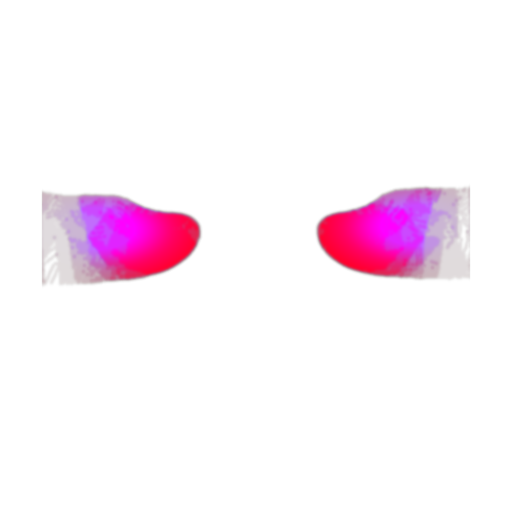
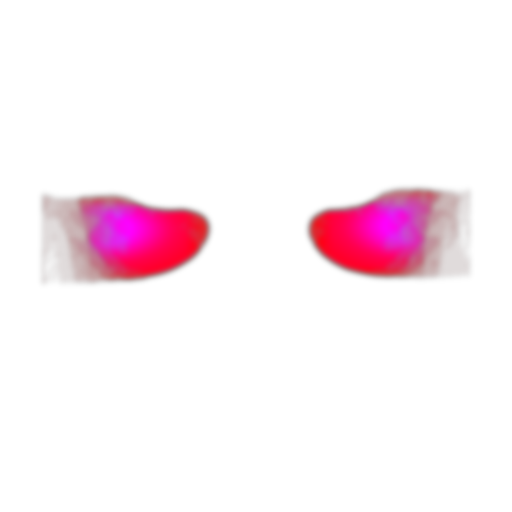
fix: soften cheek blush masks

Changed region(s): [[0.5938, 0.3438, 0.9062, 0.5625], [0.0625, 0.375, 0.4375, 0.5625]]

diff --git a/scripts/e7_reference_atlas/generate_cheek_blush_mask_textures.py b/scripts/e7_reference_atlas/generate_cheek_blush_mask_textures.py
@@ -134,7 +134,35 @@ def overlay_source_masks_for_comparison(
 def build_soft_unity_mask(uv_hard: Image.Image) -> Image.Image:
     variants = make_region_variants(uv_hard)
     safe = trim_horizontal_uv_seams(variants["soft"])
-    return safe.filter(ImageFilter.GaussianBlur(radius=0.55))
+    return safe.filter(ImageFilter.GaussianBlur(radius=2.6))
+
+
+def paint_ellipse(
+    target: np.ndarray,
+    *,
+    cx: float,
+    cy: float,
+    radius_x: float,
+    radius_y: float,
+    value: int = 255,
+) -> None:
+    height, width = target.shape
+    left = max(int(np.floor(cx - radius_x)), 0)
+    right = min(int(np.ceil(cx + radius_x)), width - 1)
+    top = max(int(np.floor(cy - radius_y)), 0)
+    bottom = min(int(np.ceil(cy + radius_y)), height - 1)
+    if right < left or bottom < top:
+        return
+
+    grid_y, grid_x = np.mgrid[top : bottom + 1, left : right + 1]
+    ellipse = (
+        ((grid_x - cx) / max(radius_x, 1.0)) ** 2
+        + ((grid_y - cy) / max(radius_y, 1.0)) ** 2
+    ) <= 1.0
+    target[top : bottom + 1, left : right + 1] = np.maximum(
+        target[top : bottom + 1, left : right + 1],
+        ellipse.astype(np.uint8) * value,
+    )
 
 
 def expand_component_ellipse(
@@ -179,7 +207,42 @@ def expand_component_ellipse(
 def expand_screen_mask_for_runtime(clean: np.ndarray, mask_id: str) -> np.ndarray:
     expanded = np.asarray(clean, dtype=np.uint8).copy()
     alpha = expanded.astype(np.float32) / 255.0
-    _, width = expanded.shape
+    height, width = expanded.shape
+
+    if mask_id == "cheek-sunkissed-mask1-v1":
+        rebuilt = np.zeros_like(expanded)
+        components = iter_components(alpha, min_pixels=24)
+        for component in components:
+            ys, xs = np.nonzero(component)
+            if len(xs) == 0:
+                continue
+
+            box_w = max(float(xs.max() - xs.min() + 1), 1.0)
+            box_h = max(float(ys.max() - ys.min() + 1), 1.0)
+            cx = float(xs.mean())
+            cy = float(ys.mean())
+            centered = abs(cx - width * 0.5) < width * 0.12
+            small = box_w < width * 0.16 and box_h < height * 0.06
+            if centered and small:
+                paint_ellipse(
+                    rebuilt,
+                    cx=cx,
+                    cy=cy + box_h * 0.02,
+                    radius_x=box_w * 1.16,
+                    radius_y=box_h * 1.08,
+                )
+                continue
+
+            direction = -1.0 if cx < width * 0.5 else 1.0
+            paint_ellipse(
+                rebuilt,
+                cx=cx - direction * box_w * 0.44,
+                cy=cy + box_h * 0.03,
+                radius_x=max(box_w * 0.98, box_h * 0.62),
+                radius_y=box_h * 0.54,
+            )
+
+        return rebuilt
 
     if mask_id == "cheek-under-eye-mask-v1":
         for component in iter_components(alpha, min_pixels=24):
@@ -207,10 +270,10 @@ def expand_screen_mask_for_runtime(clean: np.ndarray, mask_id: str) -> np.ndarra
         return expanded
 
     growth_by_mask = {
-        "cheek-lovely-mask-v1": (1.52, 1.50, 0.0, 0.04),
-        "cheek-daily-mask-v1": (1.44, 1.42, 0.08, 0.02),
-        "cheek-sunkissed-mask1-v1": (1.34, 1.38, 0.04, 0.02),
-        "cheek-sunkissed-mask2-v1": (1.18, 1.68, 0.0, 0.10),
+        "cheek-lovely-mask-v1": (1.58, 1.54, 0.0, 0.04),
+        "cheek-daily-mask-v1": (1.48, 1.44, 0.02, 0.02),
+        "cheek-sunkissed-mask1-v1": (1.36, 1.40, 0.0, 0.02),
+        "cheek-sunkissed-mask2-v1": (1.22, 1.74, 0.0, 0.10),
     }
     scale_x, scale_y, outward_shift, shift_y = growth_by_mask.get(
         mask_id,
@@ -232,6 +295,32 @@ def expand_screen_mask_for_runtime(clean: np.ndarray, mask_id: str) -> np.ndarra
         )
 
     return expanded
+
+
+def uv_face_edge_fade(shape: tuple[int, int], margin: float = 0.075, full: float = 0.26) -> np.ndarray:
+    height, width = shape
+    _, grid_x = np.indices((height, width))
+    denom = max(float(width - 1), 1.0)
+    left = grid_x / denom
+    right = (denom - grid_x) / denom
+    return (
+        smoothstep_array(margin, full, left)
+        * smoothstep_array(margin, full, right)
+    )
+
+
+def component_inner_fade(component: np.ndarray, edge_fraction: float = 0.18) -> np.ndarray:
+    ys, xs = np.nonzero(component)
+    if len(xs) == 0:
+        return np.zeros(component.shape, dtype=np.float32)
+
+    box_w = max(float(xs.max() - xs.min() + 1), 1.0)
+    box_h = max(float(ys.max() - ys.min() + 1), 1.0)
+    grid_y, grid_x = np.indices(component.shape)
+    x_distance = np.minimum(grid_x - xs.min(), xs.max() - grid_x) / box_w
+    y_distance = np.minimum(grid_y - ys.min(), ys.max() - grid_y) / box_h
+    edge_distance = np.minimum(x_distance, y_distance)
+    return smoothstep_array(0.018, edge_fraction, edge_distance) * component
 
 
 def iter_components(alpha: np.ndarray, min_pixels: int = 8) -> list[np.ndarray]:
@@ -307,14 +396,16 @@ def three_stage_density(
     cap: float = 1.0,
 ) -> np.ndarray:
     grid_y, grid_x = np.indices(alpha.shape)
-    alpha_gate = smoothstep_array(0.035, 0.62, alpha) * component
+    inner_fade = component_inner_fade(component)
+    safe_edge = uv_face_edge_fade(alpha.shape)
+    alpha_gate = smoothstep_array(0.22, 0.84, alpha) * inner_fade * safe_edge
     distance = np.sqrt(
         ((grid_x - peak_x) / max(sigma_x, 1.0)) ** 2
         + ((grid_y - peak_y) / max(sigma_y, 1.0)) ** 2
     )
-    outer = smoothstep_array(1.92, 0.70, distance) * 0.28
-    mid = smoothstep_array(1.24, 0.38, distance) * 0.36
-    core = np.exp(-(distance**2)) * 0.48
+    outer = smoothstep_array(1.86, 0.70, distance) * 0.08
+    mid = smoothstep_array(1.12, 0.34, distance) * 0.34
+    core = np.exp(-(distance**2) * 1.24) * 0.70
     layered = np.clip(base + outer + mid + core, 0.0, 1.0)
     return alpha_gate * np.clip(layered * cap, 0.0, 1.0)
 
@@ -350,13 +441,15 @@ def make_density_map(uv_soft: Image.Image, mask_id: str) -> Image.Image:
 
         if mask_id == "cheek-sunkissed-mask2-v1":
             half_width = max(box_w * 0.56, 1.0)
-            alpha_gate = smoothstep_array(0.035, 0.62, alpha) * component
+            inner_fade = component_inner_fade(component, edge_fraction=0.24)
+            safe_edge = uv_face_edge_fade(alpha.shape)
+            alpha_gate = smoothstep_array(0.26, 0.86, alpha) * inner_fade * safe_edge
             side_strength = np.clip(np.abs((grid_x - cx) / half_width), 0.0, 1.0)
-            outer = 0.16 * smoothstep_array(0.02, 0.48, alpha)
-            mid = 0.32 * smoothstep_array(0.15, 0.76, alpha)
-            ridge = 0.10 + 0.90 * np.power(side_strength, 1.35)
+            outer = 0.03 * smoothstep_array(0.22, 0.70, alpha)
+            mid = 0.22 * smoothstep_array(0.34, 0.84, alpha)
+            ridge = 0.18 + 0.82 * np.power(side_strength, 1.18)
             vertical_core = np.exp(-((grid_y - (cy + box_h * 0.08)) / max(box_h * 0.42, 1.0)) ** 2)
-            core = 0.46 * ridge * vertical_core
+            core = 0.40 * ridge * vertical_core
             component_density = alpha_gate * np.clip(outer + mid + core, 0.0, 1.0)
         else:
             direction = -1.0 if cx < width * 0.5 else 1.0
@@ -379,10 +472,10 @@ def make_density_map(uv_soft: Image.Image, mask_id: str) -> Image.Image:
                 base = 0.10
             elif mask_id == "cheek-sunkissed-mask1-v1":
                 is_nose = abs(cx - width * 0.5) < width * 0.10 and box_w < width * 0.18
-                sigma_x = box_w * (0.44 if is_nose else 0.40)
-                sigma_y = box_h * (0.44 if is_nose else 0.38)
-                base = 0.02 if is_nose else 0.09
-                cap = 0.28 if is_nose else 1.0
+                sigma_x = box_w * (0.58 if is_nose else 0.40)
+                sigma_y = box_h * (0.54 if is_nose else 0.38)
+                base = 0.12 if is_nose else 0.08
+                cap = 1.0
             elif mask_id == "cheek-under-eye-mask-v1":
                 peak_x = cx + direction * box_w * 0.24
                 peak_y = cy - box_h * 0.02
@@ -409,7 +502,7 @@ def make_density_map(uv_soft: Image.Image, mask_id: str) -> Image.Image:
 
 def make_cheek_rgba_mask(uv_soft: Image.Image, mask_id: str) -> tuple[Image.Image, Image.Image]:
     alpha = uv_soft.convert("L")
-    density = make_density_map(alpha, mask_id)
+    density = make_density_map(alpha, mask_id).filter(ImageFilter.GaussianBlur(radius=1.65))
     reserved = Image.new("L", alpha.size, 0)
     return Image.merge("RGBA", (alpha, reserved, density, alpha)), density
 

diff --git a/scripts/e7_reference_atlas/make_cheek_blush_expected_preview.py b/scripts/e7_reference_atlas/make_cheek_blush_expected_preview.py
@@ -15,7 +15,7 @@ FRAME_PATH = ROOT / "evidence/e7-reference-atlas/capture_pairs/pair_face_2026062
 ARFACE_PATH = ROOT / "evidence/e7-reference-atlas/capture_pairs/pair_face_20260622T143334Z_03/arface_export.json"
[1 lines of base64/hex data omitted]
 EVIDENCE_ROOT = ROOT / "evidence/e7-reference-atlas/cheek-blush-mask-textures-v1"
-OUTPUT_ROOT = EVIDENCE_ROOT / "expected_render_20260628"
+OUTPUT_ROOT = EVIDENCE_ROOT / "expected_render_20260628_natural_v5"
 
 MASKS = (
     ("Daily", "blush_daily", "cheek-daily-mask-v1", 0.84, "#F2A59A"),
@@ -37,7 +37,7 @@ CHEEK_SKIN_TINT = np.array([1.0, 1.0, 1.0], dtype=np.float32)
 CHEEK_OPACITY = 0.52
 CHEEK_INTENSITY = 0.95
 PRESERVE_SCALE = 0.92
-MATERIAL_ALPHA = CHEEK_OPACITY * (0.18 + (0.42 - 0.18) * CHEEK_INTENSITY)
+MATERIAL_ALPHA = CHEEK_OPACITY * (0.24 + (0.54 - 0.24) * CHEEK_INTENSITY)
 CROP_BOX = (110, 710, 1060, 1460)
 
 
@@ -157,34 +157,44 @@ def render_expected(
     full_soft = smoothstep(0.025 - 0.64 * 0.46, 0.025 + 0.64, soft)
     full_core = smoothstep(0.025 + 0.64 * 0.18, 0.025 + 0.64 * 0.88, soft)
     edge_band = np.clip(full_soft - full_core, 0.0, 1.0)
-    outer_ramp = smoothstep(0.025, 0.36, full_soft)
-    mid_ramp = smoothstep(0.12, 0.68, density_soft)
-    core_ramp = smoothstep(0.52, 0.92, density_soft)
-    outer_layer = np.clip(outer_ramp * (0.22 + mid_ramp * 0.30), 0.0, 1.0)
-    mid_layer = np.clip(mid_ramp * full_soft, 0.0, 1.0)
-    core_layer = np.clip((core_ramp * (0.34 + (1.0 - 0.34) * full_core)) ** 1.08, 0.0, 1.0)
+    outer_ramp = smoothstep(0.12, 0.72, full_soft)
+    mid_ramp = smoothstep(0.20, 0.76, density_soft)
+    core_ramp = smoothstep(0.42, 0.88, density_soft)
+    outer_layer = np.clip(outer_ramp * (0.018 + mid_ramp * 0.040), 0.0, 1.0)
+    mid_layer = np.clip(mid_ramp * smoothstep(0.18, 0.70, full_soft), 0.0, 1.0)
+    core_layer = np.clip((core_ramp * (0.62 + (1.0 - 0.62) * full_core)) ** 1.04, 0.0, 1.0)
     skin_fade = np.clip(
-        outer_layer * 0.22
-        + mid_layer * 0.58
-        + core_layer,
+        outer_layer * 0.0
+        + mid_layer * 0.22
+        + core_layer * 0.96,
         0.0,
         1.0,
     )
-    edge_tint = edge_band * outer_layer * 0.012
     mask_strength = (
-        outer_layer * coverage * 0.18
-        + mid_layer * coverage * 0.28
-        + core_layer * coverage * 0.44
-        + edge_tint * coverage
+        outer_layer * coverage * 0.004
+        + mid_layer * coverage * 0.18
+        + core_layer * coverage * 0.56
     )
-    max_pigment_strength = 0.24 + (0.38 - 0.24) * np.clip(coverage, 0.0, 1.0)
+    color_luma = float(np.dot(ROSE, np.array([0.2126, 0.7152, 0.0722], dtype=np.float32)))
+    light_color_boost = float(smoothstep(0.66, 0.88, np.asarray(color_luma, dtype=np.float32)))
+    max_pigment_strength = (
+        0.28
+        + (0.46 - 0.28) * np.clip(coverage, 0.0, 1.0)
+        + light_color_boost * 0.08
+    )
     pigment_strength = np.clip(
         mask_strength * MATERIAL_ALPHA * PRESERVE_SCALE,
         0.0,
         max_pigment_strength,
     )
     secondary = parse_hex_color(secondary_hex)
-    blush_pigment = np.clip(ROSE * (1.0 - 0.14) + secondary * 0.14, 0.0, 1.0)
+    visible_primary = np.clip(
+        ROSE * (1.0 - 0.24 * light_color_boost)
+        + np.array([0.018, 0.0, 0.012], dtype=np.float32) * light_color_boost,
+        0.0,
+        1.0,
+    )
+    blush_pigment = np.clip(visible_primary * 0.90 + secondary * 0.10, 0.0, 1.0)
     pigment_color = (
         CHEEK_SKIN_TINT.reshape((1, 1, 3)) * (1.0 - skin_fade[..., None])
         + blush_pigment.reshape((1, 1, 3)) * skin_fade[..., None]
@@ -195,6 +205,14 @@ def render_expected(
 
 
 def source_mask_overlay(frame: Image.Image, mask_id: str) -> Image.Image:
+    generated_path = EVIDENCE_ROOT / "screen" / f"{mask_id}-source-clean.png"
+    if generated_path.exists():
+        source = Image.open(generated_path).convert("L")
+        if source.size != frame.size:
+            source = source.resize(frame.size, Image.Resampling.BILINEAR)
+        alpha = np.asarray(source, dtype=np.float32) / 255.0
+        return overlay_alpha(frame, alpha, (242, 112, 126))
+
     source_path = SOURCE_DRAWINGS.get(mask_id)
     if source_path is None or not source_path.exists():
         return frame.convert("RGB")
@@ -223,7 +241,7 @@ def crop_thumb(image: Image.Image, width: int = 320, height: int = 260) -> Image
 def main() -> None:
     OUTPUT_ROOT.mkdir(parents=True, exist_ok=True)
     frame = Image.open(FRAME_PATH).convert("RGB")
-    columns = ("source drawing", "projected alpha", "projected density", "expected render")
+    columns = ("generated source", "projected alpha", "projected density", "expected render")
     tile_w, tile_h, label_h = 320, 260, 32
     sheet = Image.new(
         "RGB",
@@ -235,19 +253,20 @@ def main() -> None:
         draw.text((col * tile_w + 8, 9), label, fill=(0, 0, 0))
 
     summary: dict[str, object] = {
-        "previewId": "cheek-blush-expected-render-20260628-three-stage",
+        "previewId": "cheek-blush-expected-render-20260628-natural-v5",
         "runtimeSelectionRule": "one cheek blush region mask is selected per cheek layer; each cheek mask encodes outer/mid/core gradient layers",
         "color": "#D94B74",
         "addedColor": "#F0CBD5",
         "opacity": CHEEK_OPACITY,
         "intensity": CHEEK_INTENSITY,
         "materialAlphaApprox": MATERIAL_ALPHA,
-        "edgeContract": "cheek blush edges resolve toward unchanged camera skin via neutral multiply filter",
-        "layerContract": "outer soft wash + mid veil + core pigment are blended from one selected cheek mask",
+        "edgeContract": "cheek blush outer alpha stays wide for attachment, but visible pigment is density-gated inward and resolves toward unchanged camera skin",
+        "layerContract": "outer invisible safety wash + mid veil + core pigment are blended from one selected cheek mask",
+        "colorContract": "bright cheek colors are automatically darkened just enough for validation visibility while saturated colors keep their selected hue",
         "densityContract": {
             "blush_daily": "expanded outer/high cheekbone wash with mid veil and core peak",
             "blush_lovely": "expanded round apple-center wash with mid veil and core peak",
-            "blush_sunkissed1": "expanded cheek spots strongest; nose bridge/tip capped low",
+            "blush_sunkissed1": "horizontally filled round cheek blobs with visible nose blush",
             "blush_sunkissed2": "expanded W wash with cheekbone ends strongest and nose bridge low",
             "blush_under_eye": "starts directly below the lower eye area, then fades down into high cheek",
         },

diff --git a/scripts/e7_reference_atlas/verify_cheek_blush_contract.py b/scripts/e7_reference_atlas/verify_cheek_blush_contract.py
@@ -15,7 +15,7 @@ MASK_ROOT = ROOT / "unity/MakeupARUnityValidation/Assets/Resources/SmoothRegionM
 SUMMARY_PATH = ROOT / "evidence/e7-reference-atlas/cheek-blush-mask-textures-v1/summary.json"
 EXPECTED_SUMMARY_PATH = (
     ROOT
-    / "evidence/e7-reference-atlas/cheek-blush-mask-textures-v1/expected_render_20260628/summary.json"
+    / "evidence/e7-reference-atlas/cheek-blush-mask-textures-v1/expected_render_20260628_natural_v5/summary.json"
 )
 APP_PATH = ROOT / "rn/MakeupARValidation/App.tsx"
 RNBRIDGE_PATH = ROOT / "unity/MakeupARUnityValidation/Assets/Scripts/RNBridge.cs"
@@ -92,12 +92,16 @@ def main() -> None:
         "expected render must document single-mask runtime selection and encoded 3-stage layers",
     )
     require(
-        expected["edgeContract"] == "cheek blush edges resolve toward unchanged camera skin via neutral multiply filter",
+        expected["edgeContract"] == "cheek blush outer alpha stays wide for attachment, but visible pigment is density-gated inward and resolves toward unchanged camera skin",
         "expected render must document the skin-fade edge contract",
     )
     require(
-        expected["layerContract"] == "outer soft wash + mid veil + core pigment are blended from one selected cheek mask",
+        expected["layerContract"] == "outer invisible safety wash + mid veil + core pigment are blended from one selected cheek mask",
         "expected render must document the 3-stage layer contract",
+    )
+    require(
+        expected["colorContract"] == "bright cheek colors are automatically darkened just enough for validation visibility while saturated colors keep their selected hue",
+        "expected render must document color differentiation behavior",
     )
     require(
         expected["addedColor"] == "#F0CBD5",
@@ -141,6 +145,8 @@ def main() -> None:
             "cheekOuterLayer",
             "cheekMidLayer",
             "cheekCoreLayer",
+            "cheekLightColorBoost",
+            "cheekVisiblePrimary",
             "cheekSkinFade",
             "cheekSkinTint",
         ),

diff --git a/unity/MakeupARUnityValidation/Assets/Scripts/E3RegionMaskOverlay.cs b/unity/MakeupARUnityValidation/Assets/Scripts/E3RegionMaskOverlay.cs
@@ -2655,8 +2655,8 @@ public sealed class E3RegionMaskOverlay : MonoBehaviour
             case "blush_sunkissed1":
             case "blush_sunkissed2":
             case "blush_under_eye":
-                sampleAlphaScale = Mathf.Lerp(0.18f, 0.42f, recipe.Intensity);
-                brightnessScale = 0.98f;
+                sampleAlphaScale = Mathf.Lerp(0.24f, 0.54f, recipe.Intensity);
+                brightnessScale = 0.96f;
                 break;
             case "shimmer_eye":
                 sampleAlphaScale = Mathf.Lerp(0.3f, 0.5f, recipe.Intensity);

diff --git a/TECH_VALIDATION_RESULT.md b/TECH_VALIDATION_RESULT.md
@@ -108,6 +108,8 @@ Latest E7 cheek blush skin-fade feedback correction: 2026-06-27 KST
 
 Latest E7 cheek blush milk-pink/three-stage correction and build gate: 2026-06-28 KST
 
+Latest E7 cheek blush natural edge/color no-build correction: 2026-06-28 KST
+
 ## Current Session Snapshot
 
 This snapshot is the default entry point for future Codex sessions. Read this section first, then lazy-load only the milestone-specific plan or research document needed for the current task.
@@ -258,6 +260,7 @@ Key evidence:
 - 2026-06-27 E7 cheek blush Build Gate execution: after user approval, UnityFramework regeneration/sync succeeded with `TIMESTAMP=e7-cheek-blush-runtime-20260627` and `BUILD_LOG_MODE=full`. Unity export imported all five cheek v1 mask Resources, recorded `CompileScripts: 3358.894ms`, and included ARKit/Vision/MetalPerformanceShaders links. The UnityFramework Xcode build recorded `** BUILD SUCCEEDED **`; RN/package-local framework artifacts are arm64 Mach-O frameworks (`119M`, Unity `Data` `24M`). RN real-device run on UDID `00008110-0001794E0CD9801E` failed before install/runtime because the iPhone was unavailable to Xcode/RN (`xcodebuild` code `70`; `devicectl` showed `202268054(???)` as `unavailable`). A compare-only unsigned generic iOS build then succeeded, producing a `199M` `MakeupARValidation.app` embedding the new `119M` UnityFramework and `24M` Unity `Data`. Evidence logs: `evidence/logs/m3-repro-unity-export-e7-cheek-blush-runtime-20260627.log`, `evidence/logs/m3-repro-xcodebuild-unityframework-e7-cheek-blush-runtime-20260627.log`, `evidence/logs/m3-repro-artifact-verification-e7-cheek-blush-runtime-20260627.log`, `evidence/logs/e7-cheek-blush-rn-ios-device-20260627.log`, `evidence/logs/e7-cheek-blush-rn-ios-unsigned-build-20260627.log`, and `evidence/logs/e7-cheek-blush-rn-ios-unsigned-artifact-20260627.log`. Cheek remains Yellow because no runtime screenshots/log diagnostics, FPS/frame-time/latency/thermal/memory, motion, face-proportion, or five-shape visual acceptance evidence was collected.
 - 2026-06-27 E7 cheek blush skin-fade feedback correction: user-provided iPhone screenshots at `rose #D94B74` / `intensity=95%` showed plausible cheek placement but an unnatural pink perimeter, especially on `blush_lovely`, confirming that the edge should resolve toward actual camera skin color rather than a low-alpha pink patch. A follow-up user review also noted that shape-specific density intent was not visible enough. Evidence is stored under `evidence/screenshots/e7-cheek-blush-skin-fade-feedback-2026-06-27/`, and the correction log is `evidence/logs/e7-cheek-blush-skin-fade-feedback-20260627.md`. The cheek shader now makes pigment strength density/core driven, uses a neutral multiply tint at the perimeter so edges fade back toward unchanged skin, and keeps a lower cheek pigment cap than lip. The cheek mask B-channel density was regenerated so `blush_daily` peaks outer/high cheekbone, `blush_lovely` peaks apple center, `blush_sunkissed1` keeps cheek strongest with nose capped low, `blush_sunkissed2` keeps cheekbone ends strongest with low bridge, and `blush_under_eye` peaks outer under-eye/high cheek while restraining inner lower eyelid. The no-build expected sheet was regenerated at `evidence/e7-reference-atlas/cheek-blush-mask-textures-v1/expected_render_20260627/cheek_blush_expected_render_sheet.png`, and the density contact sheet is `evidence/e7-reference-atlas/cheek-blush-mask-textures-v1/cheek_blush_mask_contact_sheet.png`. RN HUD now keeps `recipe_applied` events by region so cheek review is not overwritten by a later disabled `eye` acknowledgement. Follow-up no-build QA passed; `blush_sunkissed2` remains the highest runtime banding risk. This is no-build/static correction only; a fresh Build Gate-approved UnityFramework/RN run is required before runtime acceptance or Green.
 - 2026-06-28 E7 cheek blush milk-pink/three-stage correction: user-provided expected color was sampled as `#F0CBD5` and added to the RN cheek palette as `milk_pink`. The cheek texture generator now expands all five blush masks for a wider soft outer falloff, treats `blush_under_eye` specially so it starts directly below the lower eye area and fades into the high cheek instead of floating awkwardly lower, and encodes a per-shape three-stage density map (`outer` / `mid` / `core`) for smoother gradients. The cheek shader now resolves those logical layers as `cheekOuterLayer`, `cheekMidLayer`, and `cheekCoreLayer`, keeping neutral skin fade at the outer edge while letting the core carry stronger pigment. No-build checks passed: cheek contract verifier, `git diff --check`, RN Jest (`16`), TypeScript, and RN lint. After build approval, UnityFramework regeneration/sync succeeded with `TIMESTAMP=e7-cheek-blush-three-stage-20260628`; RN real-device install still failed before runtime because Xcode has no provisioning profile/account for `com.yeoseojin.makeupar.validation202268054` / team `9G4K6N63MK`. A compare-only unsigned device-targeted RN/Xcode build succeeded and produced a `199M` app embedding an arm64 `119M` UnityFramework with `24M` Unity `Data`; required Unity metadata and ARKit subsystem files are present. Evidence logs: `evidence/logs/m3-repro-unity-export-e7-cheek-blush-three-stage-20260628.log`, `evidence/logs/m3-repro-xcodebuild-unityframework-e7-cheek-blush-three-stage-20260628.log`, `evidence/logs/m3-repro-artifact-verification-e7-cheek-blush-three-stage-20260628.log`, `evidence/logs/e7-cheek-blush-three-stage-rn-ios-device-20260628.log`, `evidence/logs/e7-cheek-blush-three-stage-rn-ios-device-auto-sign-20260628.log`, `evidence/logs/e7-cheek-blush-three-stage-rn-ios-unsigned-build-20260628.log`, and `evidence/logs/e7-cheek-blush-three-stage-rn-ios-unsigned-artifact-verification-20260628.log`. Cheek remains Yellow until runtime screenshots/logs, motion, performance, and five-shape visual acceptance evidence are collected on the iPhone.
+- 2026-06-28 E7 cheek blush natural edge/color no-build correction: user screenshots showed visible cheek perimeter seams, weak color differentiation, nearly invisible `milk_pink`, and awkward side-face clipping on `blush_sunkissed1` / `blush_sunkissed2`. The follow-up correction keeps the wide user-drawn/source region as a safety outer alpha, but moves visible pigment inward by regenerating the B-channel density with a stricter inner gate, component-edge fade, and UV side fade so face-edge mesh clipping is less likely to leave a colored vertical boundary. `blush_sunkissed1` now rebuilds the screen source from filled round cheek blobs plus nose blush instead of preserving the half-moon source cutout; the latest tweak extends only the cheek blobs' inner horizontal span toward the cheek center while keeping vertical growth restrained. Unity cheek shader blending now treats outer as a near no-color safety wash, mid as the veil, and core as pigment; `cheekLightColorBoost` / `cheekVisiblePrimary` make bright pink colors validation-visible without changing saturated red/rose behavior as much. `E3RegionMaskOverlay` raises cheek material alpha scaling so light colors are not swallowed by multiply blending. The expected-render sheet is regenerated at `evidence/e7-reference-atlas/cheek-blush-mask-textures-v1/expected_render_20260628_natural_v5/cheek_blush_expected_render_sheet.png`, and the cheek contract verifier passes with density now smaller than alpha for all five masks. This is no-build/static correction only; UnityFramework rebuild, RN install, and iPhone runtime visual acceptance have not been rerun.
 - E7 Vision ARFace UV-bake no-build evidence: the latest Vision debug/compare path change bakes the stabilized Vision lip boundary into a transient ARFace UV mask instead of shader-sampling a live screen-space mask. Source evidence: `E3RegionMaskOverlay.cs` now creates `VisionUvMaskTexture`, back-projects screen samples through ARFace triangle barycentric coordinates, writes a soft-falloff UV splat (`VisionUvMaskSoftSplatRadius=3`) instead of a hard `3x3` stamp, applies the dynamic texture with `_UseScreenSpaceMask=0`, and reports `apple_vision_lip_landmark_arface_uv_baked` / `vision_arface_uv_baked_outer_minus_inner_soft_falloff` diagnostics. Verification passed with scoped `git diff --check`, Unity DLL-referenced Roslyn compile for all runtime scripts, Unity batchmode import/compile, RN Jest (`11` tests), TypeScript, and RN lint. The Unity log `evidence/logs/e7-vision-arface-uv-bake-diag-unity-batchmode-20260626.log` records `CompileScripts: 2965.738ms`, no `Shader error` / `error CS`, and `Exiting batchmode successfully now!`. No UnityFramework build, RN install, or iPhone runtime visual acceptance was collected for this checkpoint.
 - E7 soft-SDF multilayer offline preview evidence: `scripts/e7_reference_atlas/make_lip_soft_sdf_multilayer_preview.py` passed Python compile and generated `evidence/e7-reference-atlas/lip-style-atlas-v1/soft_sdf_multilayer_preview_20260626/soft_sdf_multilayer_sheet.png`, `soft_sdf_layer_diagnostic.png`, and `summary.json`. The preview uses the same reference frame and lip atlas round-trip mask to approximate the shader intent for no-build review: hard alpha vs soft matte vs soft gradient vs a single thin soft-white wet-line. It is preview-only evidence, not runtime acceptance.
 - E7 soft-SDF completion audit evidence: `evidence/logs/e7-soft-sdf-completion-audit-20260626.md` records requirement-by-requirement status for Vision smoothing/transition, large-motion compensation, ARFace UV stabilization, shader logical layers, RN diagnostics, and missing runtime visual acceptance.
@@ -498,7 +501,7 @@ Result growth policy:
 
 ## Next Milestone Boundary
 
-E1 AR Alignment, E2 Trackable Lifecycle Diagnostics, E3 Region Mask, E4 Texture Sample, E5 AI Feature Readiness Snapshot, E6 Engine Decision, E7.0/E7.1 preflight, E7.2 Baseline Instrumentation, and the accepted E7 lip implementation slice are complete/frozen for their recorded evidence scope. The current default next work is E7 cheek/blush validation only. The 2026-06-28 cheek blush `milk_pink` / expanded three-stage gradient correction is implemented, UnityFramework build/sync proof is collected, and RN unsigned package proof is collected, but cheek remains Yellow until a real-device RN install/run collects runtime evidence. M0-M6 remain Green. M7 remains Yellow / skipped by decision / risk accepted.
+E1 AR Alignment, E2 Trackable Lifecycle Diagnostics, E3 Region Mask, E4 Texture Sample, E5 AI Feature Readiness Snapshot, E6 Engine Decision, E7.0/E7.1 preflight, E7.2 Baseline Instrumentation, and the accepted E7 lip implementation slice are complete/frozen for their recorded evidence scope. The current default next work is E7 cheek/blush validation only. The 2026-06-28 cheek blush `milk_pink` / expanded three-stage gradient correction has follow-up no-build natural edge/color tuning for perimeter seams, light-color visibility, and side-face clipping, but this latest source change has not yet been rebuilt into a fresh UnityFramework/RN package. Cheek remains Yellow until a fresh build/install/run collects runtime evidence. M0-M6 remain Green. M7 remains Yellow / skipped by decision / risk accepted.
 
 Next boundary decision:
 
